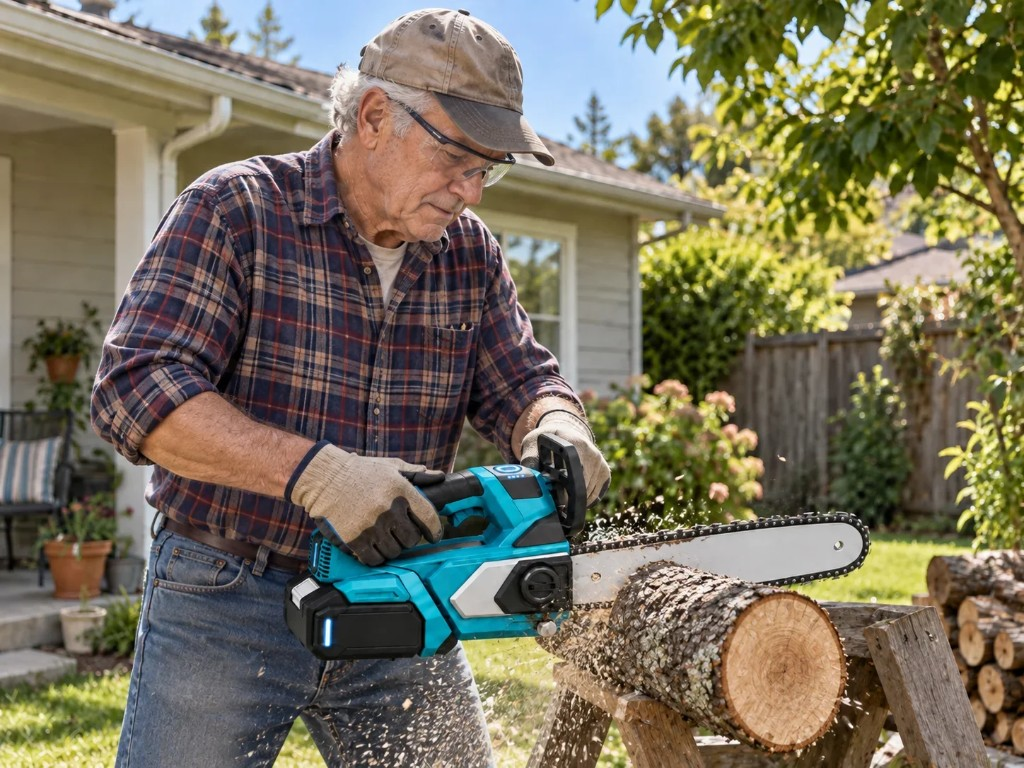
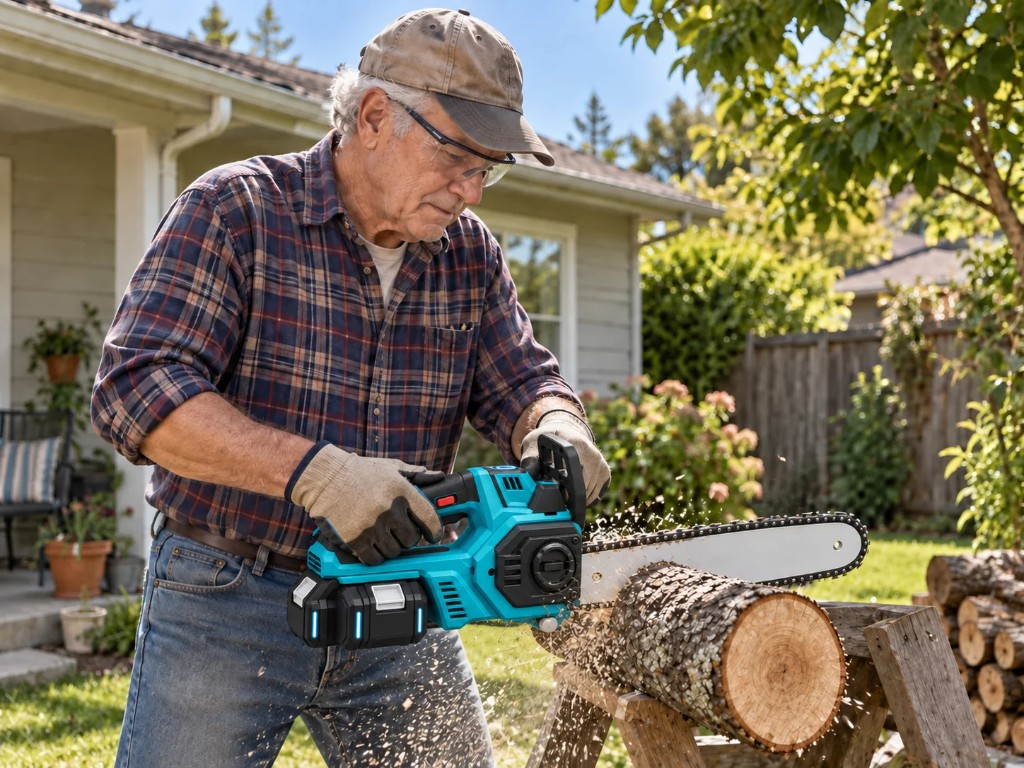
Update Iron Oak Pro SK feature images for motor and battery sections.

diff --git a/sk/vortek-3228/landing.html b/sk/vortek-3228/landing.html
@@ -514,7 +514,7 @@ window.SITE_CONFIG = {
     <div class="vk-wrap">
       <div class="vk-feature-inner">
         <div class="vk-feature-img-wrap">
-          <img class="vk-feature-img" alt="Bezkefový motor reťazovej píly Iron Oak Pro v akcii" src="/assets/img/products/vortek/feature-battery-swap.webp?v=3" loading="lazy" decoding="async" width="700" height="700">
+          <img class="vk-feature-img" alt="Bezkefový motor reťazovej píly Iron Oak Pro v akcii" src="/assets/img/products/vortek/feature-battery-swap.webp?v=4" loading="lazy" decoding="async" width="700" height="700">
         </div>
         <div class="vk-feature-body">
           <div class="vk-feature-eyebrow">Motor, ktorý nepoľaví</div>
@@ -534,7 +534,7 @@ window.SITE_CONFIG = {
     <div class="vk-wrap">
       <div class="vk-feature-inner">
         <div class="vk-feature-img-wrap">
-          <img class="vk-feature-img" alt="Dve lítiové batérie a rýchlonabíjačka Iron Oak Pro" src="/assets/img/products/vortek/feature-one-handed.webp?v=1" loading="lazy" decoding="async" width="700" height="700">
+          <img class="vk-feature-img" alt="Dve lítiové batérie a rýchlonabíjačka Iron Oak Pro" src="/assets/img/products/vortek/feature-one-handed.webp?v=2" loading="lazy" decoding="async" width="700" height="700">
         </div>
         <div class="vk-feature-body">
           <div class="vk-feature-eyebrow">Energia, ktorá vás neopustí</div>
